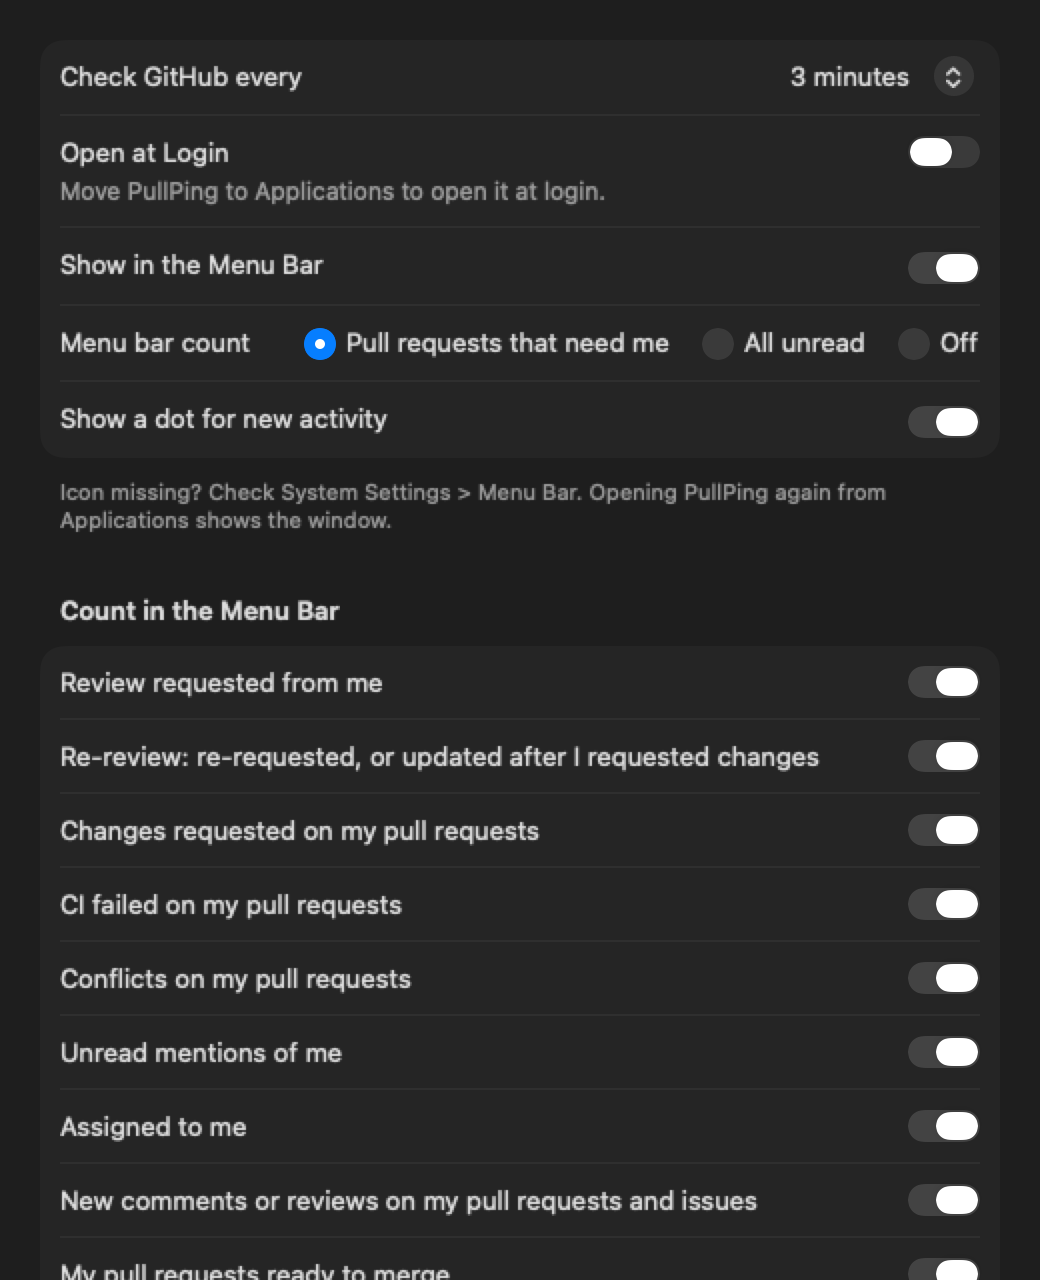
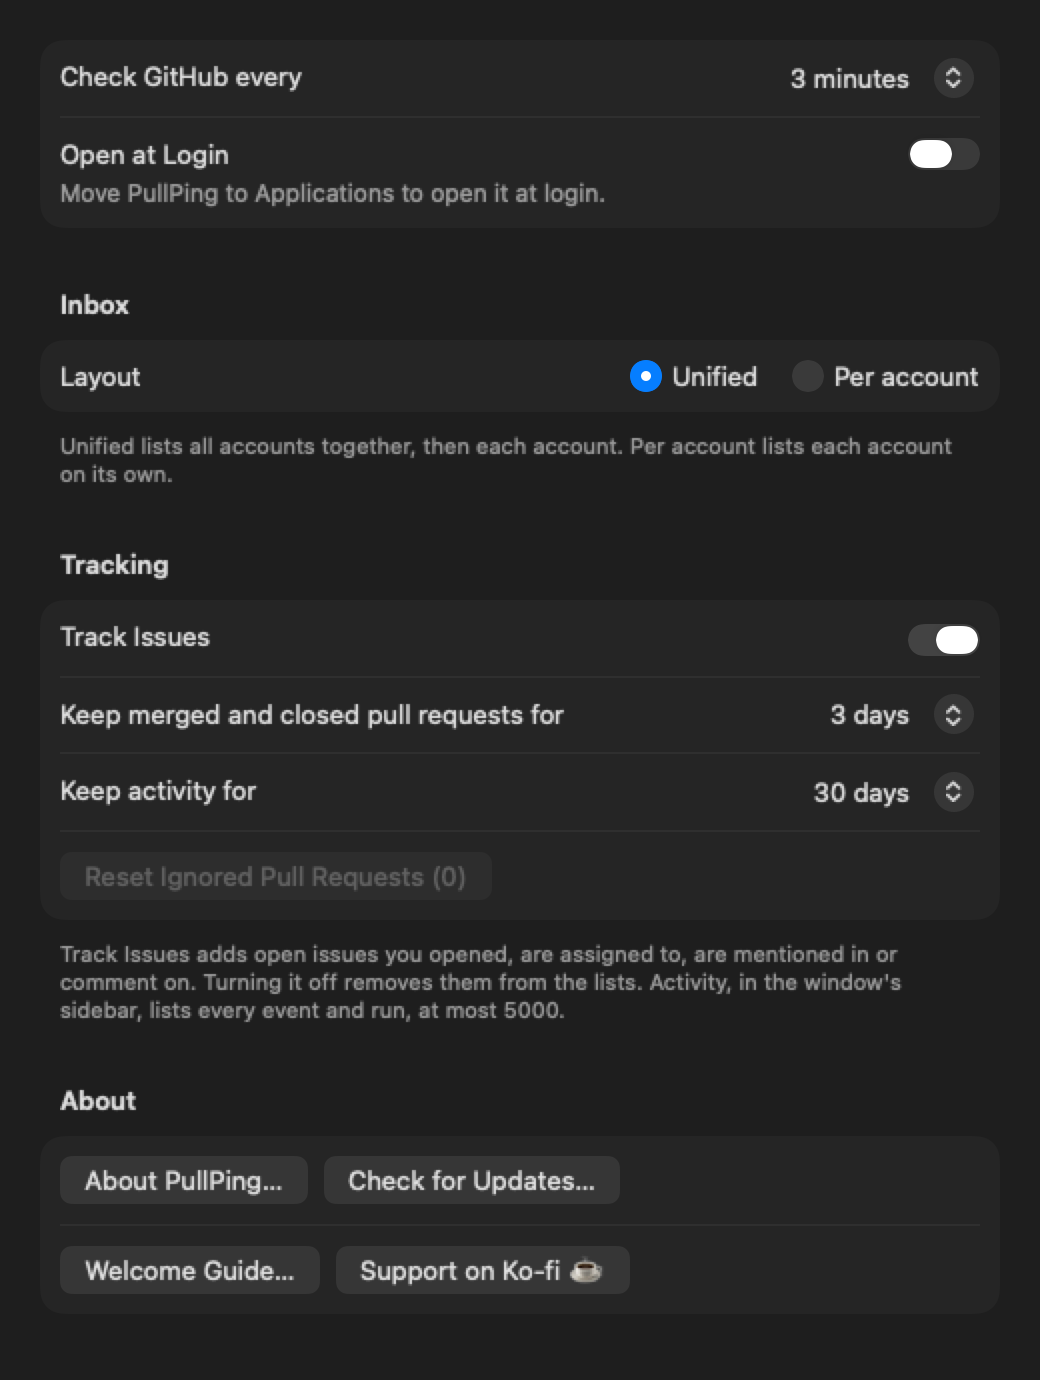
docs: screenshots, demo and changelog for the design loop
Regenerated the README screenshots whose surfaces changed (panel,
main window, Activity, draft window, Automations, rule editor,
General) plus the new Settings › Menu Bar; the demo GIF (panel header);
one Changed line under [Unreleased].

diff --git a/Tests/PullPingScreenshotTests/ScreenshotRenderTests.swift b/Tests/PullPingScreenshotTests/ScreenshotRenderTests.swift
@@ -78,7 +78,7 @@ final class ScreenshotRenderTests: XCTestCase {
         }
         store.setFindSessions(false)  // reloads the store's copy
         store.mutateRepoFolders { $0.roots = ["~/Code", "~/src"] }  // also reloads the store's copy
-        try save("settings-automations", AutomationsTab(store: store), NSSize(width: 520, height: 1010))  // down to Open With and the first prompts
+        try save("settings-automations", AutomationsTab(store: store), NSSize(width: 520, height: 1010))  // down to the rules and Open With
         // Scrolled to its end (agent, session, prompt); 32 pt taller than the sheet so the top edge falls between sections.
         try render(RuleEditorSheet(store: store, rule: review), size: NSSize(width: 560, height: 672), dark: false, scrollToEnd: true,
                    to: URL(fileURLWithPath: dir).appendingPathComponent("rule-editor.png"))

diff --git a/CHANGELOG.md b/CHANGELOG.md
@@ -22,6 +22,7 @@ Planned as 0.7.0.
 - The pull request's right-click menu has **Handle with Agent ▸** with all its choices; **Run Automation ▸** keeps rules and hooks. The handler editor no longer has Open in (it uses the default under Open With), and a rule's Open in picks one of the Open With entries.
 - `--launcher` on `pullping rule|hook|handler` picks (or adds) the matching Open With entry; `pullping handler set --launcher` makes it the default.
 - Ghostex: a session PullPing starts there comes to the front. Resuming a session that is already open in Ghostex focuses it instead of starting a second copy, and types one line into its input (without pressing Return) that points at the prompt; `pullping session resume` does the same instead of refusing. An automatic run never types into an open session: it asks with a **Go to Session** button instead.
+- **Interface polish.** A new **Settings → Menu Bar** tab holds the icon, its count and dot (General no longer scrolls); Settings → Automations lists Rules right after Handle with Agent and folds the scenario prompts into one row; removing a rule asks first; the panel header gives the breakdown its own full-width lines; the detail pane keeps Open in Browser and Mark as Read and puts Mute, Hide, Snooze and Stop Tracking under **⋯**; **Run Automation ▸** is also in the Pull Request menu; collapsed groups show a chevron in the panel too.
 
 ### Added
 - **Numbers and dots.** Every account segment, filter (also inside the panel's filter menu) and sidebar row shows how many items need you (the number) and a dot when something there happened that you have not opened yet: a comment, a review, CI, a merge or a new request, by someone else. The menu-bar icon's dot shows while anything is new (Settings → Menu Bar → **Show a dot for new activity**, on by default); the panel header says how many ("2 new"); a collapsed account, Drafts, Waiting on Others or Reviewed shows a dot when it holds something new. A dot goes when you open the item, select it in the window or mark it read, not when you open the panel; muted, hidden and snoozed items light no group dot. Numbers inside the app now always count what needs you, also when the menu-bar count is All unread or Off.

diff --git a/README.md b/README.md
@@ -217,7 +217,7 @@ your version; it never turns on automatic runs or the search through your agent 
   "resume this session when the pull request is approved or commented on". A hook runs once and is then removed;
   an unused one expires after 14 days.
 
-<img src="docs/screenshots/settings-automations.png" alt="Settings, Automations tab: the Copy Setup Prompt note, Run Automations on, Handle with Agent on, Open With with Terminal (the default) and Ghostex, and the first scenario prompts" width="340">
+<img src="docs/screenshots/settings-automations.png" alt="Settings, Automations tab: the Copy Setup Prompt note, Run Automations on, Handle with Agent on, three rules, and Open With with Terminal (the default) and Ghostex" width="340">
 &nbsp;
 <img src="docs/screenshots/rule-editor.png" alt="The rule editor: agent, command, where it opens, working directory {worktree_dir}, the pull request's linked session as the session, and the prompt" width="420">
 
